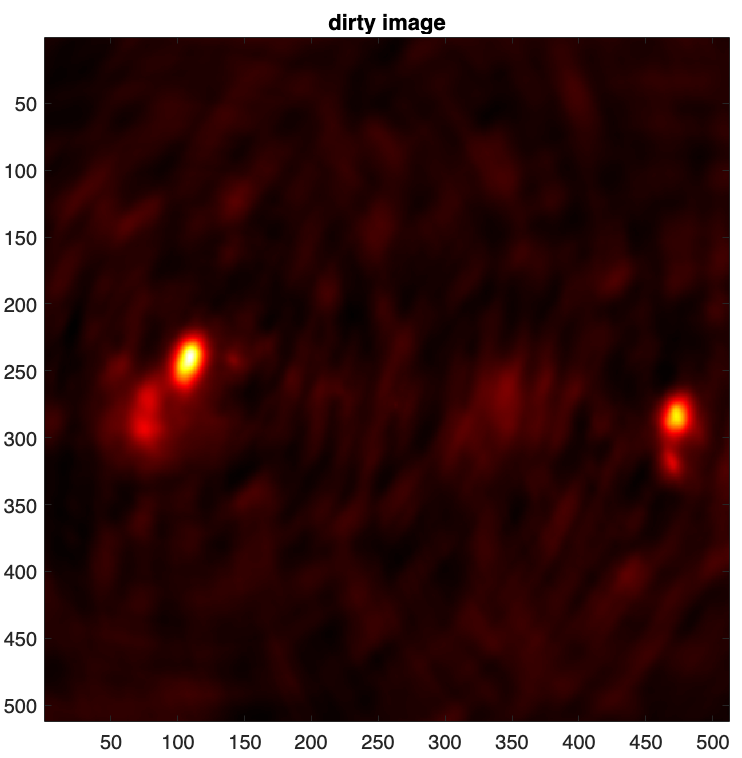
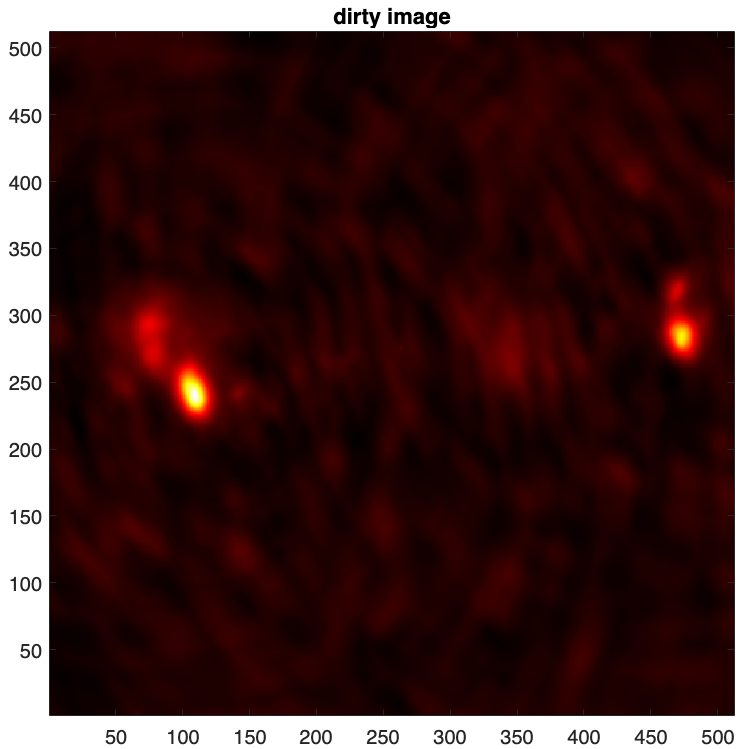
update

diff --git a/AIRI_tutorial.html b/AIRI_tutorial.html
@@ -30,20 +30,11 @@
             <h3>Imaging with AIRI</h3>
             <p>
                 AI for Regularization in Imaging, dubbed AIRI, is a Plug-and-Play (PnP) algorithm solving inverse
-                imaging problems in synthesis imaging by interferometry (<b>SII</b>) [1]. By inserting carefully trained deep
+                imaging problems in synthesis imaging by interferometry (SII) [1]. By inserting carefully trained deep
                 neural network (DNN) as a denoiser  into the proximal splitting algorithms, one waives the computational
                 complexity of optimisation algorithms induced by sophisticated image priors, and the sub-optimality of
-                handcrafted priors compared to Deep Neural Networks. AIRI is underpinned by the forward-backward
-                iterative scheme. The details of AIRI are discussed in the following papers.
-              <br><br>
-              [1] Terris, M., Dabbech, A., Tang, C., & Wiaux, Y., <a href="https://doi.org/10.1093/mnras/stac2672" target="_blank">Image reconstruction algorithms in radio
-                interferometry: From handcrafted to learned regularization denoisers.</a> MNRAS, 518(1), 604-622, 2023.
-              <br>
-              [2] Wilber, A. G., Dabbech, A., Jackson, A., & Wiaux, Y., <a href="https://doi.org/10.1093/mnras/stad1351" target="_blank">Scalable precision wide-field imaging in radio
-                interferometry: I. uSARA validated on ASKAP data.</a> MNRAS, 522(4), 5558-5575, 2023.
-              <br>
-              [3] Terris, M., Tang, C., Jackson, A., & Wiaux, Y., <a href="https://arxiv.org/abs/2312.07137v2" target="_blank">Plug-and-play imaging with model uncertainty
-                quantification in radio astronomy</a>, 2023, preprint arXiv:2312.07137.
+                handcrafted priors compared to Deep Neural Networks. AIRI is underpinned by the forward-backward iterative scheme.
+                The details of AIRI are discussed in [1,2,3].
               <br><br>
               In this tutorial, we focus on <a href="https://github.com/basp-group/AIRI" target="_blank">a MATLAB implementation of AIRI</a>
                 for small-scale monochromatic intensity imaging in SII, from the environment setup, to imaging.
@@ -155,8 +146,7 @@
         </div>
         <pre>
 <span class="function">websave</span>(<span class="string">"./airi_denoisers/v1_airi_astro-based_oaid_shelf.zip"</span>, <span class="string">"https://researchportal.hw.ac.uk/files/115109618/v1_airi_astro-based_oaid_shelf.zip"</span>);
-<span class="function">websave</span>(<span class="string">"./airi_denoisers/v1_airi_mri-based_mrid_shelf.zip"</span>, <span class="string">"https://researchportal.hw.ac.uk/files/115109619/v1_airi_mri-based_mrid_shelf.zip"</span>);
-        </pre>
+<span class="function">websave</span>(<span class="string">"./airi_denoisers/v1_airi_mri-based_mrid_shelf.zip"</span>, <span class="string">"https://researchportal.hw.ac.uk/files/115109619/v1_airi_mri-based_mrid_shelf.zip"</span>);</pre>
     </div>
 
             <p>
@@ -184,17 +174,21 @@
                 First, let us read and visualise the ground truth.
             </p>
 
+    <div class="center-wrapper">
     <div class="code-container">
         <div class="copy-btn" onclick="copyText(this)">
             <img src="images/copy.png" class="copy_logo">
         </div>
         <pre>
-<span class="variable">img_gdth</span> = <span class="module">fitsread</span>(<span class="function">fullfile</span>(<span class="string">"data"</span>,<span class="string">"3c353_gdth.fits"</span>));
+<span class="comment">% Read the ground truth image</span>
+<span class="variable">img_gdth</span> = <span class="function">fitsread</span>(<span class="function">fullfile</span>(<span class="string">"data"</span>,<span class="string">"3c353_gdth.fits"</span>));
 <span class="function">figure</span>
 <span class="function">imagesc</span>(<span class="variable">img_gdth</span>)
-<span class="function">colorbar</span>, <span class="function">axis image</span>, <span class="function">colormap</span>(<span class="string">'hot'</span>)
+<span class="function">set</span>(<span class="function">gca</span>,<span class="string">'YDir'</span>,<span class="string">'normal'</span>)
+<span class="function">colorbar</span>, <span class="function">axis</span> <span class="function">image</span>, <span class="function">colormap</span>(<span class="string">'hot'</span>)
 <span class="function">title</span>(<span class="string">"Ground truth image in linear scale"</span>)</pre>
     </div>
+</div>
 
             <div class="tutorial_container">
             <figure class="image-3d">
@@ -203,32 +197,38 @@
             </div>
         <p>
             Given the large dynamic range of the ground truth, only bright features are visible in linear scale.
-            For a better visualisation, we map its pixels intensities to the logarithmic scale using the function below:
-            \[\textrm{rlog}(\boldsymbol{\bar{x}}) = \boldsymbol{\bar{x}}_{\textrm{max}}
-            \log_{a}(\frac{a}{\boldsymbol{\bar{x}}_{\textrm{max}}} \boldsymbol{\bar{x}} + \boldsymbol{1}),\]
+            For a better visualisation, we map its pixels intensities to the logarithmic scale using the equation below [4]:
+            \[\textrm{rlog}(\boldsymbol{{x}}) = \boldsymbol{{x}}_{\textrm{max}}
+            \log_{a}(\frac{a}{\boldsymbol{{x}}_{\textrm{max}}} \boldsymbol{{x}} + \boldsymbol{1}),\]
 
-            where \(a>0\) is  the dynamic range of the ground truth \(\boldsymbol{\bar{x}}\) and \(\boldsymbol{\bar{x}}_{\textrm{max}}\)
-            is the maximum intensity. In the case of the considered ground truth \(a=2500\) and \(\boldsymbol{\bar{x}}_{\textrm{max}}=1\).
+            where \(a>0\) and \(\boldsymbol{{x}}_{\textrm{max}}\) are the dynamic range and the maximum intensity
+            of input image \(\boldsymbol{{x}}\) respectively. For the ground truth image \(\boldsymbol{\bar{x}}\) shown above, the maximum intensity is
+            \(\boldsymbol{\bar{x}}_{\textrm{max}}=1\) and a dynamic range is approximately \(a=10^4\).
         </p>
 
+    <div class="center-wrapper">
     <div class="code-container">
         <div class="copy-btn" onclick="copyText(this)">
             <img src="images/copy.png" class="copy_logo">
         </div>
         <pre>
-<span class="variable">rlog</span> = @(<span class="variable">x</span>, <span class="variable">a</span>) <span class="function">log10</span>(<span class="variable">a</span> .* <span class="variable">x</span> + <span class="number">1</span>) ./ <span class="function">log10</span>(<span class="variable">a</span>); <span class="comment">% logarithmic mapping parameterised by the dynamic range `a`</span>
-<span class="variable">img_gdth_log</span> = <span class="variable">rlog</span>(<span class="variable">img_gdth</span>, <span class="number">2500</span>); <span class="comment">% `a`=2500 in this case</span>
+<span class="comment">% Define the logarithmic mapping function</span>
+<span class="variable">rlog</span> = <span class="keyword">@</span>(<span class="variable">x</span>, <span class="variable">a</span>) <span class="variable">max</span>(<span class="variable">x</span>(<span class="keyword">:</span>)) .* <span class="function">log10</span>(<span class="variable">a</span> .* <span class="variable">x</span> ./ <span class="variable">max</span>(<span class="variable">x</span>(<span class="keyword">:</span>)) + <span class="number">1</span>) ./ <span class="function">log10</span>(<span class="variable">a</span>); <span class="comment">% logarithmic mapping parameterised by the dynamic range `a`</span>
+<span class="variable">dynamic_range</span> = <span class="number">1e4</span>;
+<span class="variable">img_gdth_log</span> = <span class="variable">rlog</span>(<span class="variable">img_gdth</span>, <span class="variable">dynamic_range</span>);
 <span class="function">figure</span>
 <span class="function">imagesc</span>(<span class="variable">img_gdth_log</span>), <span class="function">colormap</span>(<span class="string">'hot'</span>)
-<span class="function">axis image</span>
+<span class="function">set</span>(<span class="function">gca</span>,<span class="string">'YDir'</span>,<span class="string">'normal'</span>)
+<span class="function">axis</span> <span class="function">image</span>
 <span class="variable">cb</span> = <span class="function">colorbar</span>;
-<span class="variable">ticks</span> = <span class="variable">rlog</span>([<span class="number">1e-4</span>, <span class="number">1e-3</span>, <span class="number">1e-2</span>, <span class="number">1e-1</span>, <span class="number">1.0</span>], <span class="number">2500</span>);
+<span class="variable">ticks</span> = <span class="variable">rlog</span>([<span class="number">1e-4</span>, <span class="number">1e-3</span>, <span class="number">1e-2</span>, <span class="number">1e-1</span>, <span class="number">1.0</span>], <span class="variable">dynamic_range</span>);
 <span class="variable">ticks</span>(<span class="function">end</span>) = <span class="number">1</span>;
 <span class="variable">cb</span>.<span class="variable">Ticks</span> = <span class="variable">ticks</span>;
 <span class="variable">cb</span>.<span class="variable">TickLabels</span> = {<span class="string">"$10^{-4}$"</span>, <span class="string">"$10^{-3}$"</span>, <span class="string">"$10^{-2}$"</span>, <span class="string">"$10^{-1}$"</span>, <span class="string">"$1$"</span>};
 <span class="variable">cb</span>.<span class="variable">TickLabelInterpreter</span> = <span class="string">'latex'</span>;
 <span class="function">title</span>(<span class="string">"Ground truth in log scale"</span>)</pre>
     </div>
+</div>
 
             <div class="tutorial_container">
             <figure class="image-3d">
@@ -390,22 +390,25 @@
                 \(\boldsymbol{h} = \kappa\textrm{Re}\{\boldsymbol{\Phi}^{\dagger}\boldsymbol{\Phi}\boldsymbol{\delta}\}\)
                 , with \(\boldsymbol{\delta}\) a Dirac delta image (with value 1 at its centre and 0 otherwise), and \(\kappa\)
                 a normalisation factor ensuring its peak value is equal to 1.</li>
-                 <li> The dirty image is defined as \(\boldsymbol{x}_d = \kappa \textrm{Re} \{\boldsymbol{\Phi}^{\dagger} \boldsymbol{y}\} \).</li>
+                 <li> The dirty image (i.e. the normalised back-projected data) is defined as \(\boldsymbol{x}_d = \kappa \textrm{Re} \{\boldsymbol{\Phi}^{\dagger} \boldsymbol{y}\} \).</li>
                 </ul>
 
 
 
+    <div class="center-wrapper">
     <div class="code-container">
         <div class="copy-btn" onclick="copyText(this)">
             <img src="images/copy.png" class="copy_logo">
         </div>
         <pre>
 <span class="comment">% visualise both psf and dirty image</span>
-<span class="variable">dirty</span> = <span class="function">fitsread</span>(<span class="string">"./results/3c353/dirty.fits"</span>);
+<span class="variable">dirty</span> <span class="operator">=</span> <span class="function">fitsread</span>(<span class="string">"./results/3c353/dirty.fits"</span>);
 <span class="function">figure</span>
-<span class="function">imagesc</span>(<span class="variable">dirty</span>), <span class="function">axis square</span>
+<span class="function">imagesc</span>(<span class="variable">dirty</span>), <span class="function">axis</span> <span class="function">square</span>
+<span class="function">set</span>(<span class="function">gca</span>,<span class="string">'YDir'</span>,<span class="string">'normal'</span>)
 <span class="function">colormap</span>(<span class="string">'hot'</span>), <span class="function">title</span>(<span class="string">"dirty image"</span>)</pre>
     </div>
+</div>
 
 
             <div class="tutorial_container">
@@ -416,17 +419,20 @@
 
 
 
+    <div class="center-wrapper">
     <div class="code-container">
         <div class="copy-btn" onclick="copyText(this)">
             <img src="images/copy.png" class="copy_logo">
         </div>
         <pre>
-<span class="variable">psf</span> = <span class="function">fitsread</span>(<span class="string">"./results/3c353/psf.fits"</span>);
+<span class="variable">psf</span> <span class="operator">=</span> <span class="function">fitsread</span>(<span class="string">"./results/3c353/psf.fits"</span>);
 <span class="function">figure</span>
-<span class="function">imagesc</span>(<span class="variable">psf</span>), <span class="function">axis square</span>,
-<span class="function">colormap</span>(<span class="string">'hot'</span>), <span class="function">title</span>(<span class="string">"psf"</span>)
-        </pre>
+<span class="function">imagesc</span>(<span class="variable">psf</span>), <span class="function">axis</span> <span class="function">square</span>
+<span class="function">set</span>(<span class="function">gca</span>,<span class="string">'YDir'</span>,<span class="string">'normal'</span>)
+<span class="function">colormap</span>(<span class="string">'hot'</span>)
+<span class="function">title</span>(<span class="string">"point spread function"</span>)</pre>
     </div>
+</div>
 
 
             <div class="tutorial_container">
@@ -436,7 +442,7 @@
             </div>
 
             <p>
-                AIRI  reconstructed images are  saved in <b>.fits</b> format.
+                AIRI  reconstructed images are saved in <b>.fits</b> format.
             </p>
                 <ul>
                 <li> The estimated model image \(\boldsymbol{\tilde{x}}\).</li>
@@ -445,46 +451,84 @@
                     -\textrm{Re}\{\boldsymbol{\Phi}^{\dagger}\boldsymbol{\Phi} \boldsymbol{\tilde{x}}\}) \).
                 </li>
                 </ul>
-
-
-
+            <p>
+                We'll use two metrics to measure the numeric image quality, i.e.
+                <br><br>
+                \(\text{SNR}(\boldsymbol{\bar{x}}, \boldsymbol{\tilde{x}}) =
+                    20\log_{10}\left(\frac{\|\boldsymbol{\bar{x}}\|_{2}}{\|\boldsymbol{\bar{x}} - \boldsymbol{\tilde{x}}\|_{2}} \right), \)
+                <br><br>
+                and
+                <br><br>
+                \( \log\text{SNR}(\boldsymbol{\bar{x}}, \boldsymbol{\tilde{x}}) = \text{SNR}(\text{rlog}(\boldsymbol{\bar{x}}), \text{rlog}(\boldsymbol{\tilde{x}})). \)
+            </p>
+            <div class="center-wrapper">
     <div class="code-container">
         <div class="copy-btn" onclick="copyText(this)">
             <img src="images/copy.png" class="copy_logo">
         </div>
         <pre>
 <span class="comment">% read reconstructed images</span>
-<span class="variable">model</span> = <span class="function">fitsread</span>(<span class="string">"./results/3c353/AIRI_heuRegScale_1_runID_0_model_image.fits"</span>);
+<span class="function">model</span> <span class="operator">=</span> <span class="function">fitsread</span>(<span class="string">"./results/3c353/AIRI_heuScale_1_runID_0_model_image.fits"</span>);
 <span class="comment">% reconstruction evaluation metrics</span>
-<span class="variable">snr_rec</span> = @(<span class="variable">xtrue</span>,<span class="variable">xrec</span>) <span class="function">20</span>*<span class="function">log10</span>(<span class="function">norm</span>(<span class="variable">xtrue</span>(:))./<span class="function">norm</span>(<span class="variable">xtrue</span>(:) - <span class="variable">xrec</span>(:)));
-<span class="variable">airi_snr</span> = <span class="variable">snr_rec</span>(<span class="variable">img_gdth</span>, <span class="variable">model</span>);
-<span class="variable">airi_logsnr</span> = <span class="variable">snr_rec</span>(<span class="variable">rlog</span>(<span class="variable">img_gdth</span>, <span class="number">2500</span>),<span class="variable">rlog</span>(<span class="variable">model</span>, <span class="number">2500</span>));
-<span class="function">fprintf</span>(<span class="string">"\nAIRI reconstruction metrics:  SNR %.3f dB; logSNR %.3f dB\n"</span>, <span class="variable">AIRI_snr</span> , <span class="variable">airi_logsnr</span>)</pre>
+<span class="function">snr_rec</span> <span class="operator">=</span> <span class="keyword">@</span>(<span class="param">xtrue,xrec</span>)<span class="operator"> </span><span class="function">20</span><span class="operator">*</span><span class="function">log10</span>(<span class="function">norm</span>(<span class="param">xtrue(:)</span>).<span class="operator">/</span><span class="function">norm</span>(<span class="param">xtrue(:)</span> <span class="operator">-</span> <span class="param">xrec(:)</span>));
+<span class="function">airi_snr</span> <span class="operator">=</span> <span class="function">snr_rec</span>(<span class="param">img_gdth</span>, <span class="param">model</span>);
+<span class="function">airi_logsnr</span> <span class="operator">=</span> <span class="function">snr_rec</span>(<span class="function">rlog</span>(<span class="param">img_gdth</span>, <span class="param">dynamic_range</span>), <span class="function">rlog</span>(<span class="param">model</span>, <span class="param">dynamic_range</span>));
+<span class="function">fprintf</span>(<span class="string">"\nReconstruction metrics: SNR %.3f dB; logSNR %.3f dB"</span>, <span class="param">airi_snr</span>, <span class="param">airi_logsnr</span>)</pre>
     </div>
-
-
+</div>
             <p>
-                AIRI reconstruction metrics:  SNR 25.265 dB; logSNR 23.381 dB
+                Reconstruction metrics: SNR 25.265 dB; logSNR 21.025 dB
             </p>
 
+            <p>
+                Note that in [4], we considered a slightly different mapping of the logarithmic scale that is parameterised by the maximum intensity value \(\bar{x}_{\text{max}}\)
+                of the ground truth and the estimate of the target dynamic range defined as \(\hat{a}=\frac{1}{\sigma},\) such that:
+\(\text{r}\log(\boldsymbol{x}) = \bar{x}_{\text{max}} \log_{\hat{a}} \left( \frac{\hat{a}}{\bar{x}_{\text{max}}} \cdot \boldsymbol{x} + 1 \right),\)
+            </p>
+            <p>
+                We report below the value of the resulting logSNR metric, to which we refer to as logSNR2.
+            </p>
+            <div class="center-wrapper">
     <div class="code-container">
         <div class="copy-btn" onclick="copyText(this)">
             <img src="images/copy.png" class="copy_logo">
         </div>
         <pre>
-<span class="comment">% visualise reconstructed images</span>
+<span class="function">rlog2</span> <span class="operator">=</span> <span class="keyword">@</span>(<span class="param">x, a</span>) <span class="function">log10</span>(<span class="param">a</span> <span class="operator">*</span> <span class="param">x</span> <span class="operator">+</span> <span class="function">1</span>) <span class="operator">./</span> <span class="function">log10</span>(<span class="param">a</span>);
+dynamic_range_est =2500;
+airi_logsnr2 = <span class="function">snr_rec</span>(<span class="function">rlog2</span>(<span class="param">img_gdth</span>, <span class="param">dynamic_range_est</span>), <span class="function">rlog2</span>(<span class="param">model</span>, <span class="param">dynamic_range_est</span>));
+<span class="function">fprintf</span>(<span class="string">"\nReconstruction metrics: logSNR2 %.3f dB"</span>, <span class="param">airi_logsnr2</span>)</pre>
+    </div>
+</div>
+            <p>
+                Reconstruction metrics: logSNR2 23.381 dB
+            </p>
+
+            <p>
+                Next, we'll visualise the reconstructed image.
+            </p>
+
+    <div class="center-wrapper">
+    <div class="code-container">
+        <div class="copy-btn" onclick="copyText(this)">
+            <img src="images/copy.png" class="copy_logo">
+        </div>
+        <pre>
+% visualise reconstructed images
 <span class="function">figure</span>
-<span class="function">imagesc</span>(<span class="function">rlog</span>(<span class="variable">model</span>, <span class="number">2500</span>)),
-<span class="function">axis image</span>, <span class="function">colormap</span>(<span class="string">'hot'</span>)
-<span class="variable">cb</span> = <span class="function">colorbar</span>;
-<span class="variable">ticks</span> = <span class="function">rlog</span>([<span class="number">1e-4</span>, <span class="number">1e-3</span>, <span class="number">1e-2</span>, <span class="number">1e-1</span>, <span class="number">1.0</span>], <span class="number">2500</span>);
-<span class="variable">ticks</span>(<span class="function">end</span>) = <span class="number">1</span>;
-<span class="variable">cb.Ticks</span> = <span class="variable">ticks</span>;
-<span class="variable">cb.TickLabels</span> = {<span class="string">"$10^{-4}$"</span>, <span class="string">"$10^{-3}$"</span>, <span class="string">"$10^{-2}$"</span>, <span class="string">"$10^{-1}$"</span>, <span class="string">"$1$"</span>};
-<span class="variable">cb.TickLabelInterpreter</span> = <span class="string">'latex'</span>;
+<span class="function">imagesc</span>(<span class="function">rlog</span>(<span class="variable">model</span>, <span class="variable">dynamic_range</span>))
+<span class="function">set</span>(<span class="function">gca</span>,<span class="string">'YDir'</span>,<span class="string">'normal'</span>)
+<span class="function">axis</span> <span class="function">image</span>, <span class="function">colormap</span>(<span class="string">'hot'</span>)
+<span class="variable">cb</span> <span class="operator">=</span> <span class="function">colorbar</span>;
+<span class="variable">ticks</span> <span class="operator">=</span> <span class="function">rlog</span>([<span class="number">1e-4</span>, <span class="number">1e-3</span>, <span class="number">1e-2</span>, <span class="number">1e-1</span>, <span class="number">1.0</span>], <span class="variable">dynamic_range</span>);
+<span class="variable">ticks</span>(<span class="function">end</span>) <span class="operator">=</span> <span class="number">1</span>;
+<span class="variable">cb</span>.<span class="variable">Ticks</span> <span class="operator">=</span> <span class="variable">ticks</span>;
+<span class="variable">cb</span>.<span class="variable">TickLabels</span> <span class="operator">=</span> {<span class="string">"$10^-4$"</span>, <span class="string">"$10^-3$"</span>, <span class="string">"$10^-2$"</span>, <span class="string">"$10^-1$"</span>, <span class="string">"$1$"</span>};
+<span class="variable">cb</span>.<span class="variable">TickLabelInterpreter</span> <span class="operator">=</span> <span class="string">'latex'</span>;
 <span class="function">title</span>(<span class="string">"AIRI model image in log scale"</span>)
         </pre>
     </div>
+</div>
 
 
 
@@ -496,18 +540,21 @@
 
 
 
+    <div class="center-wrapper">
     <div class="code-container">
         <div class="copy-btn" onclick="copyText(this)">
             <img src="images/copy.png" class="copy_logo">
         </div>
         <pre>
-<span class="variable">residual</span> = <span class="function">fitsread</span>(<span class="string">"./results/3c353/AIRI_heuRegScale_1_runID_0_normalised_residual_dirty_image.fits"</span>);
+<span class="comment">% Load the AIRI residual dirty image</span>
+<span class="variable">residual</span> = <span class="function">fitsread</span>(<span class="string">"./results/3c353/AIRI_heuScale_1_runID_0_normalised_residual_dirty_image.fits"</span>);
 <span class="function">figure</span>
-<span class="function">imagesc</span>(<span class="variable">residual</span>), <span class="function">axis image</span>,
-<span class="function">colorbar</span>, <span class="function">colormap</span>(<span class="string">'hot'</span>),
-<span class="function">title</span>(<span class="string">"AIRI residual dirty image in linear scale"</span>)
-        </pre>
+<span class="function">imagesc</span>(<span class="variable">residual</span>), <span class="function">axis</span> <span class="function">image</span>
+<span class="function">set</span>(<span class="function">gca</span>,<span class="string">'YDir'</span>,<span class="string">'normal'</span>)
+<span class="function">colorbar</span>, <span class="function">colormap</span>(<span class="string">'hot'</span>)
+<span class="function">title</span>(<span class="string">"AIRI residual dirty in linear scale"</span>)</pre>
     </div>
+</div>
 
 
 
@@ -540,6 +587,20 @@
 <!--                    <img src="images/maltalb_logo.png"  class="jupyter_logo"> <img src="images/download_icon.png"  class="jupyter_logo">-->
 <!--                </div></a>-->
 <!--            </div>-->
+            <h1 class="fancy-heading">Additional Functionalities</h1>
+            <p>
+                [1] Terris, M., Dabbech, A., Tang, C., & Wiaux, Y., <a href="https://doi.org/10.1093/mnras/stac2672" target="_blank">Image reconstruction algorithms in radio
+                interferometry: From handcrafted to learned regularization denoisers.</a> MNRAS, 518(1), 604-622, 2023.
+              <br>
+                [2] Wilber, A. G., Dabbech, A., Jackson, A., & Wiaux, Y., <a href="https://doi.org/10.1093/mnras/stad1351" target="_blank">Scalable precision wide-field imaging in radio
+                interferometry: I. uSARA validated on ASKAP data.</a> MNRAS, 522(4), 5558-5575, 2023.
+              <br>
+                [3] Terris, M., Tang, C., Jackson, A., & Wiaux, Y., <a href="https://arxiv.org/abs/2312.07137v2" target="_blank">Plug-and-play imaging with model uncertainty
+                quantification in radio astronomy</a>, 2023, preprint arXiv:2312.07137.
+              <br>
+                [4] Aghabiglou, A., San Chu, C., Dabbech, A., & Wiaux, Y., <a href="https://iopscience.iop.org/article/10.3847/1538-4365/ad46f5" target="_blank">
+                The R2D2 deep neural network series paradigm for fast precision imaging in radio astronomy.</a> ApJS, 273(1), 3, 2024.
+            </p>
 
 
         </div>
